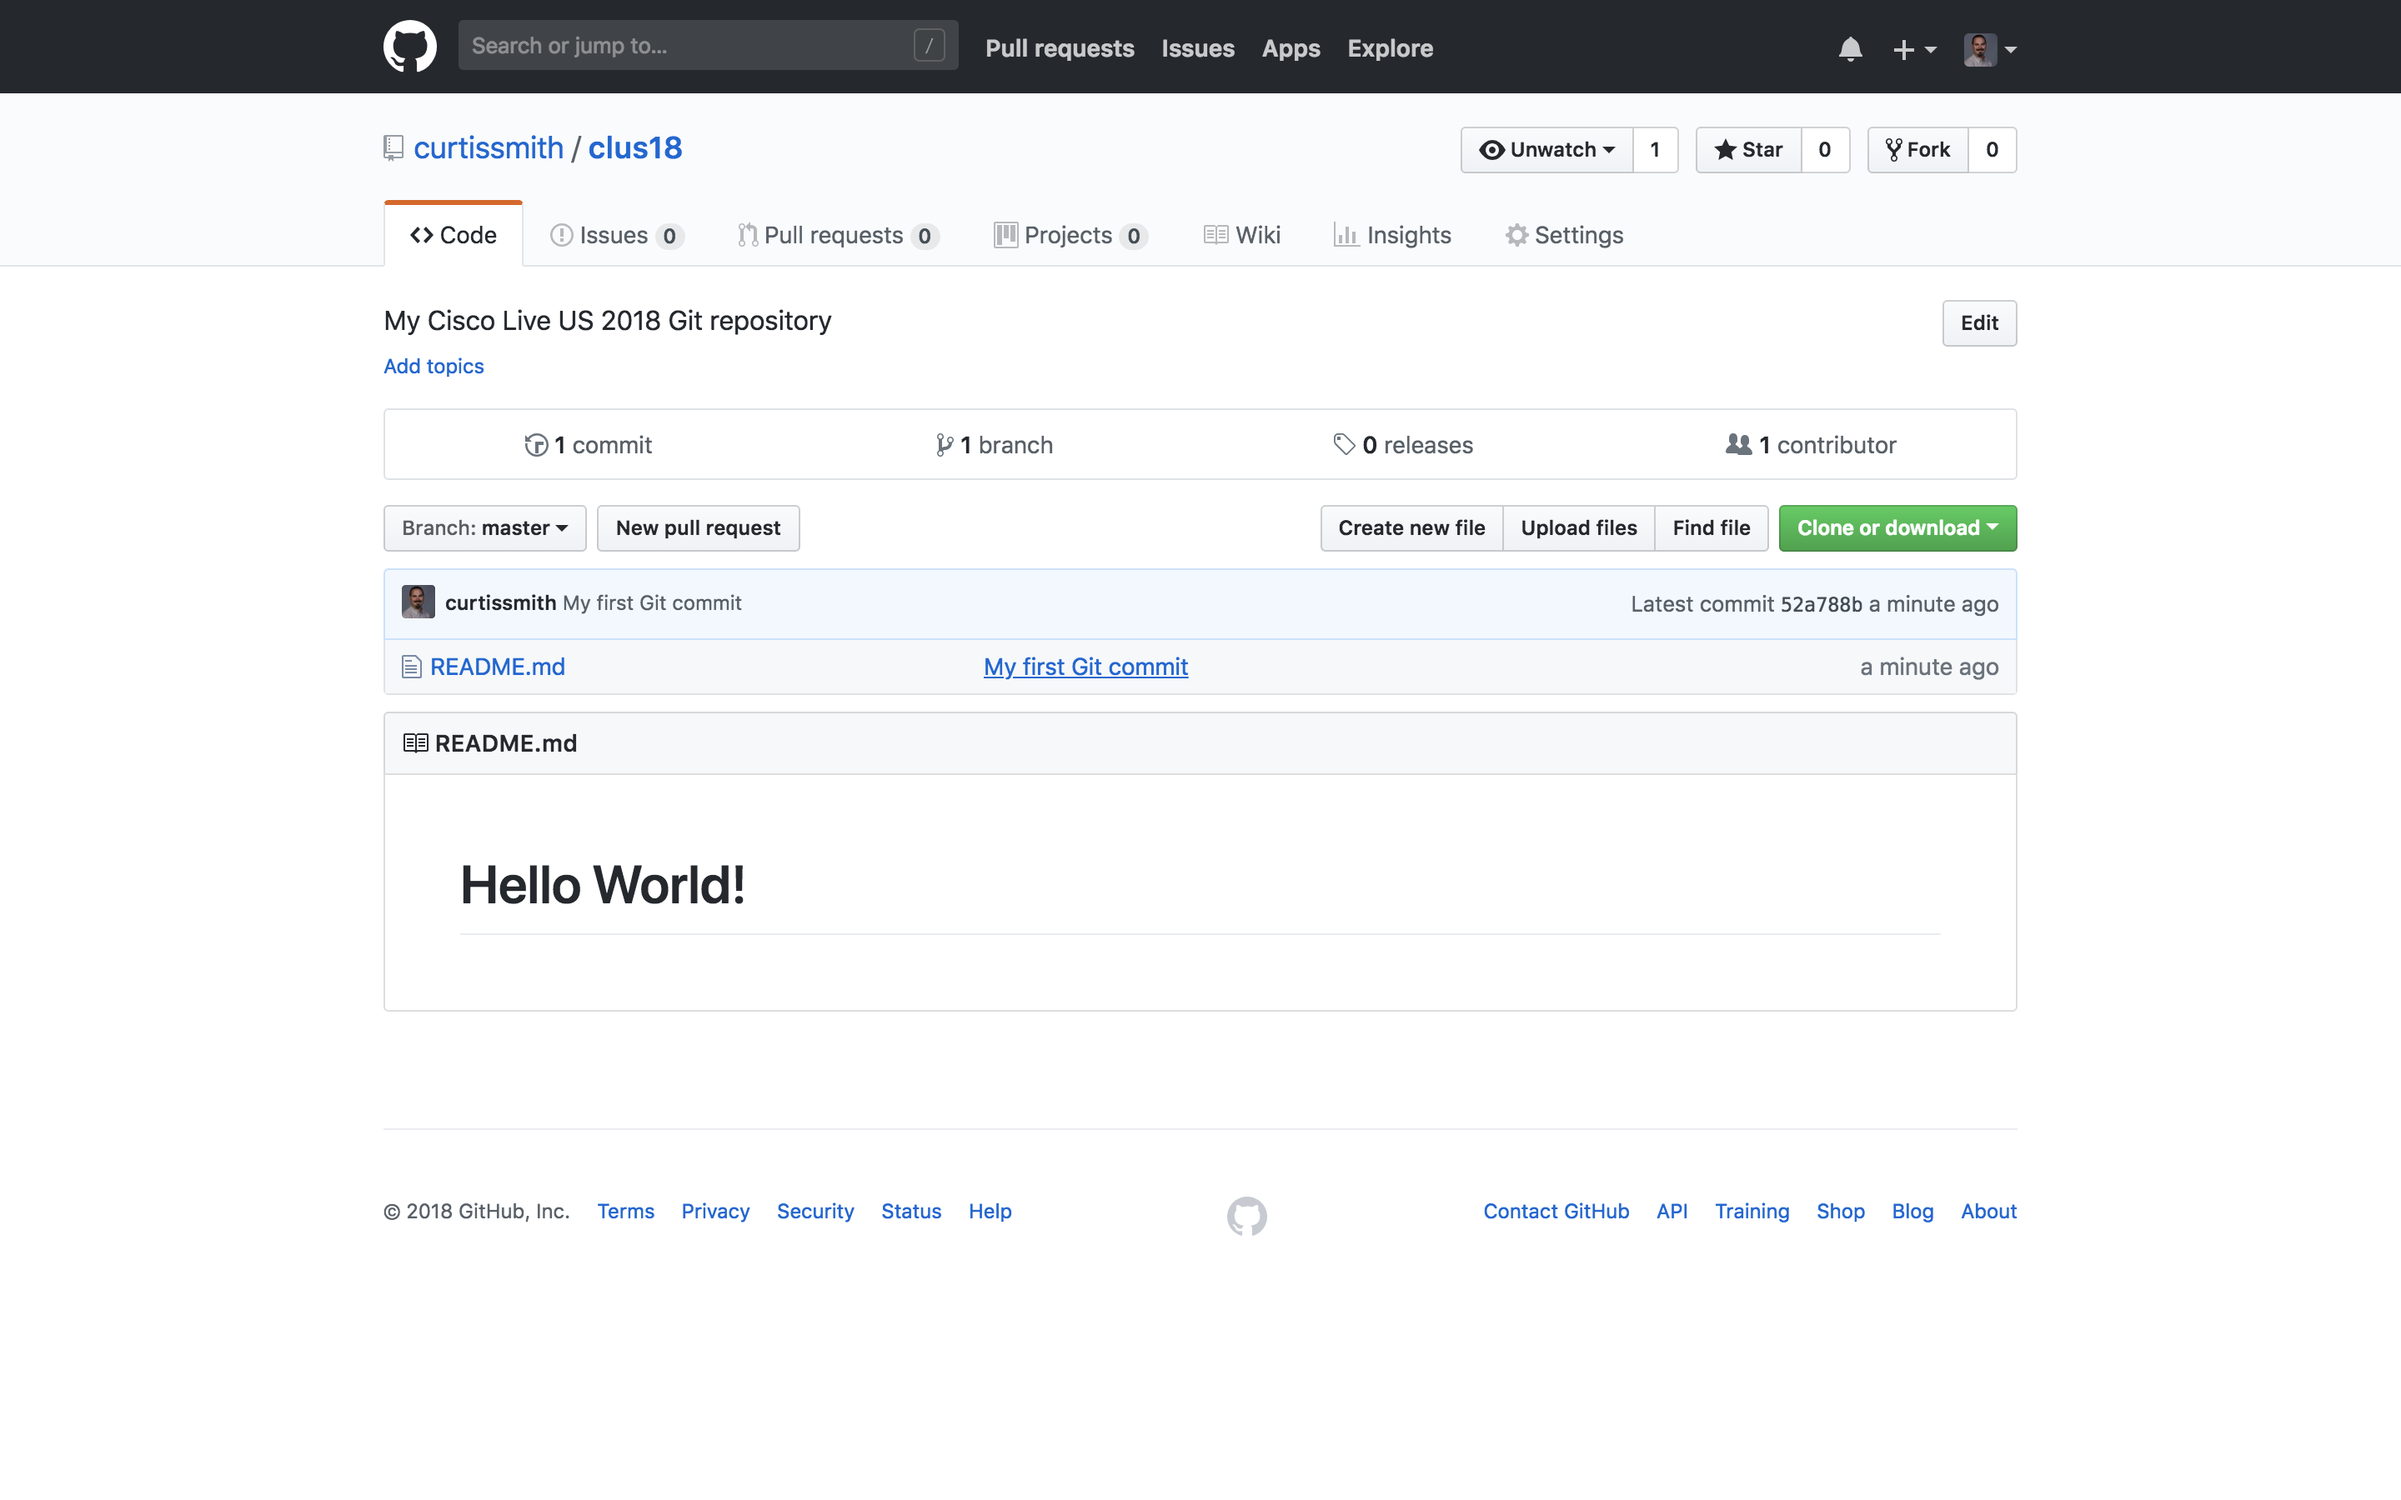
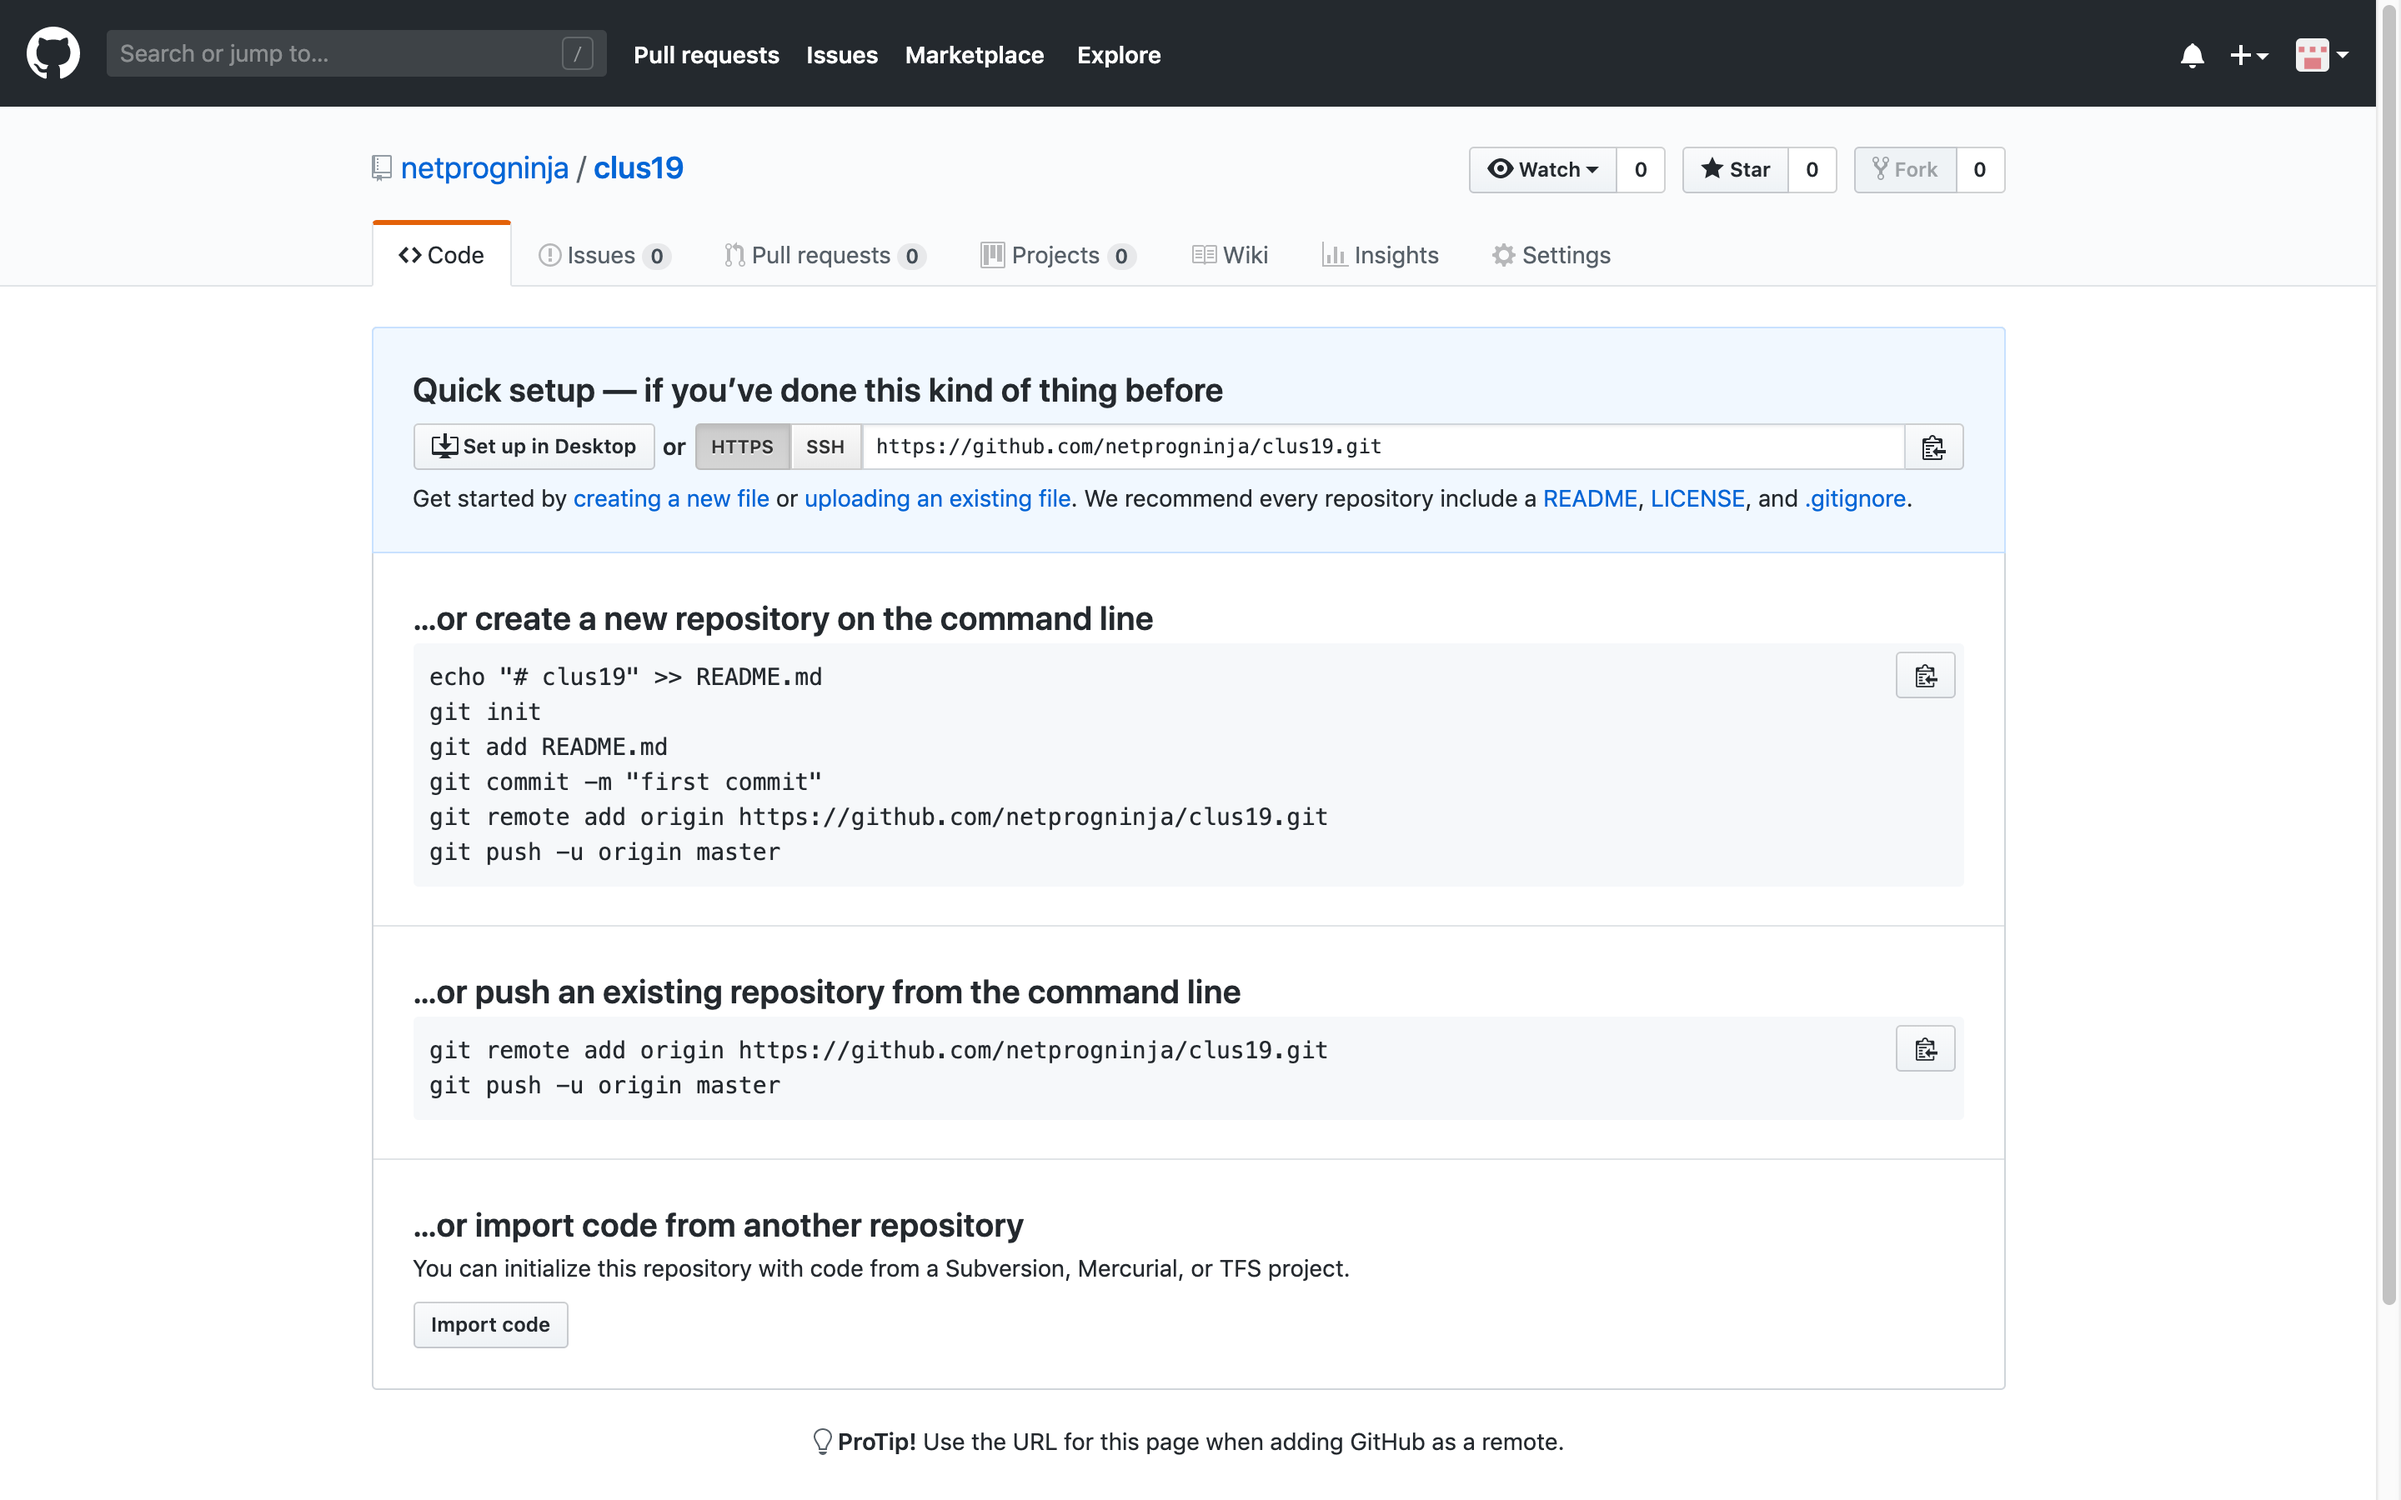
Refreshing content and adding screenshots

diff --git a/guide/LTRPRG-1100-02a3-Git-Ex2.md b/guide/LTRPRG-1100-02a3-Git-Ex2.md
@@ -37,9 +37,9 @@ to get started using Git successfully.
 
 Open the Git Bash terminal by double clicking the Git Bash icon on the desktop:
 
-![Git Bash Icon](assets/Git-02.png)
+![Git Bash Icon](assets/GitHub-02.png)
 
-![Git Bash Terminal](assets/Git-03.png)
+![Git Bash Terminal](assets/GitHub-03.png)
 
 1. For a list of common Git commands, type `git help`:
     
@@ -166,8 +166,8 @@ account, then you can use any name or email address you'd like.
     
     The `git config` command to set your name looks like this: `git config user.name "<First Last>"`.  The `user.name` 
     is a keyword option and should be typed exactly as shown in the example.  You would replace `"<First Last>"` with 
-    your first and last name, for example `"Curtis Smith"`; be sure to include the double quotes.  Go ahead and set 
-    set your name with the `git config` command:
+    your first and last name, for example `"Network Programmability Ninja"`; be sure to include the double quotes.  Go 
+    ahead and set set your name with the `git config` command:
     
     ```
     $ git config --global user.name "<First Last>"
@@ -175,11 +175,11 @@ account, then you can use any name or email address you'd like.
     
     The Git `config` command to set your email address looks like this: `git config user.email "<user@example.com>"`. 
     The `user.email` is a keyword option and should be typed as shown in the example.  You would replace 
-    `"<user@example.com>"` with your email address, for example: `"curtissm@cisco.com"`; be sure to include the double 
-    quotes.  Go ahead and set your email address with the `git config` command:
+    `"<user@example.com>"` with your email address, for example: `"netprogninja@gmail.com"`; be sure to include the 
+    double quotes.  Go ahead and set your email address with the `git config` command:
     
     ```
-    $ git config --global user.email "<email@example.com>"
+    $ git config --global user.email "<user@example.com>"
     ```
     
     You only need to complete these steps once per Git installation.
@@ -310,11 +310,11 @@ Working with remote repositories allows you to store your project on a server fo
 GitHub is a hosted service in the Cloud, but organizations might choose to install GitGub Enterprise on-premise.  The 
 process is the same regardless of which hosted solution you use.
 
-1. If you created a GitHub account, let's create a remote repository on GitHub and push your local repository to the 
-server.  If you did not create a GitHub account, then you may skip this step.
-    
-    First, navigate to [Github](https://github.com/) `https://github.com/` and ensure you've logged in with the 
-    account you created earlier.
+If you created a GitHub account, let's create a remote repository on GitHub and push your local repository to the 
+server.  If you did not create a GitHub account, then you may skip ahead to the next page.
+
+1. First, navigate to [Github](https://github.com/) `https://github.com/` and ensure you've logged in with the 
+account you created earlier.
     
     At the top right of the page, click the `+` and click `New Repository`.
     
@@ -324,15 +324,20 @@ server.  If you did not create a GitHub account, then you may skip this step.
     
     You may add an optional `Description`, for example `My Cisco Live US 2019 Git repository`.
     
+    Leave the repository `Public`.  Leave the box unchecked next to `Initialize this repository with a README`; we 
+    will complete that action later in this lab.
+    
     ![Git New Repository](assets/Git-05.png)
     
     Click the `Create repository` button.
     
-    Now let's push your existing local repository to the new remote repository you've created on GitHub.  First, 
-    use the `git remote add` command to add the local files to the remote server destination.  Make sure to replace 
-    `<username>` in the example below to match your username and `<reponame>` with the name of the remote repository 
-    you just created.  For example: `https://github.com/curtissmith>clus19.git` if your username is `curtissmith` and
-     your repository name is `clus19`.
+    ![Git New Repository](assets/Git-06.png)
+    
+2. Now let's push your existing local repository to the new remote repository you've created on GitHub.  First, use 
+the `git remote add` command to add the local files to the remote server destination.  Make sure to replace 
+`<username>` in the example below to match your username and `<reponame>` with the name of the remote repository you 
+just created.  For example: `https://github.com/netprogninja/clus19.git` if your username is `netprogninja` and your 
+repository name is `clus19`.
     
     ```
     $ git remote add origin https://github.com/<username>/<reponame>.git
@@ -345,11 +350,15 @@ server.  If you did not create a GitHub account, then you may skip this step.
     Counting objects: 3, done.
     Writing objects: 100% (3/3), 234 bytes | 234.00 KiB/s, done.
     Total 3 (delta 0), reused 0 (delta 0)
-    To https://github.com/curtissmith/clus19.git
+    To https://github.com/netprogninja/clus19.git
      * [new branch]      master -> master
     Branch 'master' set up to track remote branch 'master' from 'origin'.
     $
     ```
+    
+    Enter your GitHub username and password into the prompt and click the `Login` button:
+    
+    ![Git New Repository](assets/Git-07.png)
     
     and check the status:
     
@@ -376,14 +385,14 @@ server.  If you did not create a GitHub account, then you may skip this step.
     
     Navigate to your remote repository on GitHub and you should see the results of your labor!
     
-    ![GitHub Repository](assets/Git-06.png)
+    ![GitHub Repository](assets/Git-08.png)
     
     Congratulations, you've created a new Git repository on GitHub.
     
-2. You do not need a GitHub account to download a working copy of a remote Git repository.  The Git `clone` and 
-`pull` commands can be used download a remote repository.  The `git pull` will only work from inside a working 
-directory that contains a Git repository in the first place.  Try this by moving to a directory that doesn't contain a
- `.git` Git directory, for example:
+2. You do not need a GitHub account to download a working copy of a remote Git repository.  The `git clone` and 
+`git pull` commands can be used download a remote repository.  The `git pull` command will only work from inside a 
+working directory that contains a Git repository in the first place.  Try this by moving to a directory that doesn't 
+contain a `.git` Git directory, for example:
         
     ```
     $ cd ~/lab
